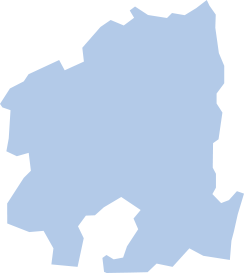
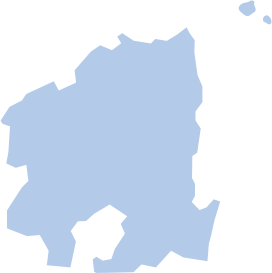
울릉도 독도 추가

diff --git a/css/add-style.less b/css/add-style.less
@@ -231,7 +231,9 @@ html { font-size: 18px; font-family: GmarketSans, sans-serif; }
           ul { .h(220); }
         }
       }
-      .map-wrap { transform: scale(0.8); .w(600); .ml(-300); .abs; .lt(50%,-50); .pl(0);  }
+      .map-wrap { transform: scale(0.8); .w(600); .ml(-300); .abs; .lt(50%,-50); .pl(0);
+        .map-view .map-cell .map8 { .wh(306,303); .lt(233,207); }
+      }
       .general-info .graph-box .min15 { .mt(20); }
     }
     &.p05 article section.integrated { height: auto; }

diff --git a/css/add-style.css b/css/add-style.css
@@ -871,6 +871,14 @@ html {
   bottom: auto;
   padding-left: 0rem;
 }
+.contain .wrap.p04 article section.integrated .map-wrap .map-view .map-cell .map8 {
+  width: 17rem;
+  height: 16.83333333rem;
+  left: 12.94444444rem;
+  top: 11.5rem;
+  right: auto;
+  bottom: auto;
+}
 .contain .wrap.p04 article section.integrated .general-info .graph-box .min15 {
   margin-top: 1.11111111rem;
 }
